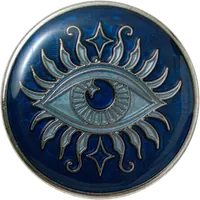
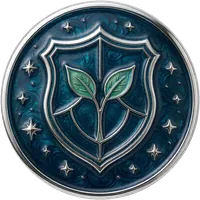
fix: 守护目光徽章换图——眼睛改为盾牌托嫩芽（温和守护意象）

diff --git a/native/pages/settings/index.js b/native/pages/settings/index.js
@@ -9,11 +9,11 @@ Page({
  requestCloudErasure(){if(this.data.privacyBusy)return;wx.showModal({title:'申请清除云端个人数据？',content:'将停止该账号的识别、生成和分享，删除私有照片及非财务个人记录。支付对账记录依法保留；公共物种插画不受影响。本机数据可另行清除。',confirmText:'继续',success:r=>{if(!r.confirm)return;wx.showModal({title:'再次确认云端清除',content:'此操作不可撤销。清理可能分批完成，未完成时请回来继续；不会仅清空本机就宣称成功。',confirmText:'确认申请',success:async final=>{if(final.confirm)await this.runCloudErasure('requestErasure')}})}})},
  async continueCloudErasure(){await this.runCloudErasure('continueErasure')},
  async runCloudErasure(action){if(this.data.privacyBusy)return;this.setData({privacyBusy:true});try{const result=await require('../../lib/cloud-privacy').privacyAction(action);this.setData({privacyStatus:result.status,privacyMessage:result.label})}catch(e){this.setData({privacyMessage:'云端清理未确认完成，请稍后重试。'})}finally{this.setData({privacyBusy:false})}},
- onLoad(q={}){const section=['privacy','help','about','membership','friends','local'].includes(q.section)?q.section:'privacy';this.setData({section,version:'0.1.9',membership:membershipView(),social:socialView()});if(section==='membership')track('subscription_page_viewed',{source:'settings'})},
+ onLoad(q={}){const section=['privacy','help','about','membership','friends','local'].includes(q.section)?q.section:'privacy';this.setData({section,version:'0.1.10',membership:membershipView(),social:socialView()});if(section==='membership')track('subscription_page_viewed',{source:'settings'})},
  changeSection(e){this._serviceToken=(this._serviceToken||0)+1;this.setData({serviceBusy:false,serviceError:'',paymentLabel:'',shareMessage:'',receivedLikes:[],receivedLikesLoaded:false,receivedLikesCursor:''});this.onLoad({section:e.currentTarget.dataset.section})},
  placeVisibility(e){try{wx.setStorageSync('nature.showLocation',!!e.detail.value);this.setData({showLocation:!!e.detail.value})}catch(e){wx.showToast({title:'设置未保存',icon:'none'})}},
  copyFeedback(){wx.setClipboardData({data:'去大自然里 · 本地反馈模板\n版本：'+this.data.version+'\n问题描述：\n操作步骤：\n预期效果：\n请自行补充后发送给开发者；不要填写照片、精确位置、密码或密钥。'})},
- data:{section:'privacy',version:'0.1.9',showLocation:false,count:0,species:0,days:0,reduce:false,drafts:[],recent:[],notes:[],cleanup:0,clearing:false,exportPath:'',exportBusy:false,opsCode:'',opsBusy:false,opsMessage:'',opsResult:null,cloudCleanup:0,cloudCleanupBusy:false},
+ data:{section:'privacy',version:'0.1.10',showLocation:false,count:0,species:0,days:0,reduce:false,drafts:[],recent:[],notes:[],cleanup:0,clearing:false,exportPath:'',exportBusy:false,opsCode:'',opsBusy:false,opsMessage:'',opsResult:null,cloudCleanup:0,cloudCleanupBusy:false},
  _opsDate(days=0){const d=new Date();d.setDate(d.getDate()+days);return [d.getFullYear(),String(d.getMonth()+1).padStart(2,'0'),String(d.getDate()).padStart(2,'0')].join('-')},
  opsCodeInput(e){this.setData({opsCode:String(e.detail.value||'')})},
  async claimOperator(){if(this.data.opsBusy)return;this.setData({opsBusy:true,opsMessage:'',opsResult:null});try{const r=await wx.cloud.callFunction({name:'printAdmin',data:{action:'claim_operator',code:this.data.opsCode}});const body=r&&r.result;if(!body||body.status!=='ok')throw Object.assign(Error('激活失败'),{code:body&&body.code});this.setData({opsMessage:'已激活为运营。',opsCode:'',opsClaimed:true});wx.setStorageSync('nature.ops.claimed',true)}catch(e){this.setData({opsMessage:this._opsFriendly(e.code)||e.message||'激活失败，请重试。'})}finally{this.setData({opsBusy:false})}},
